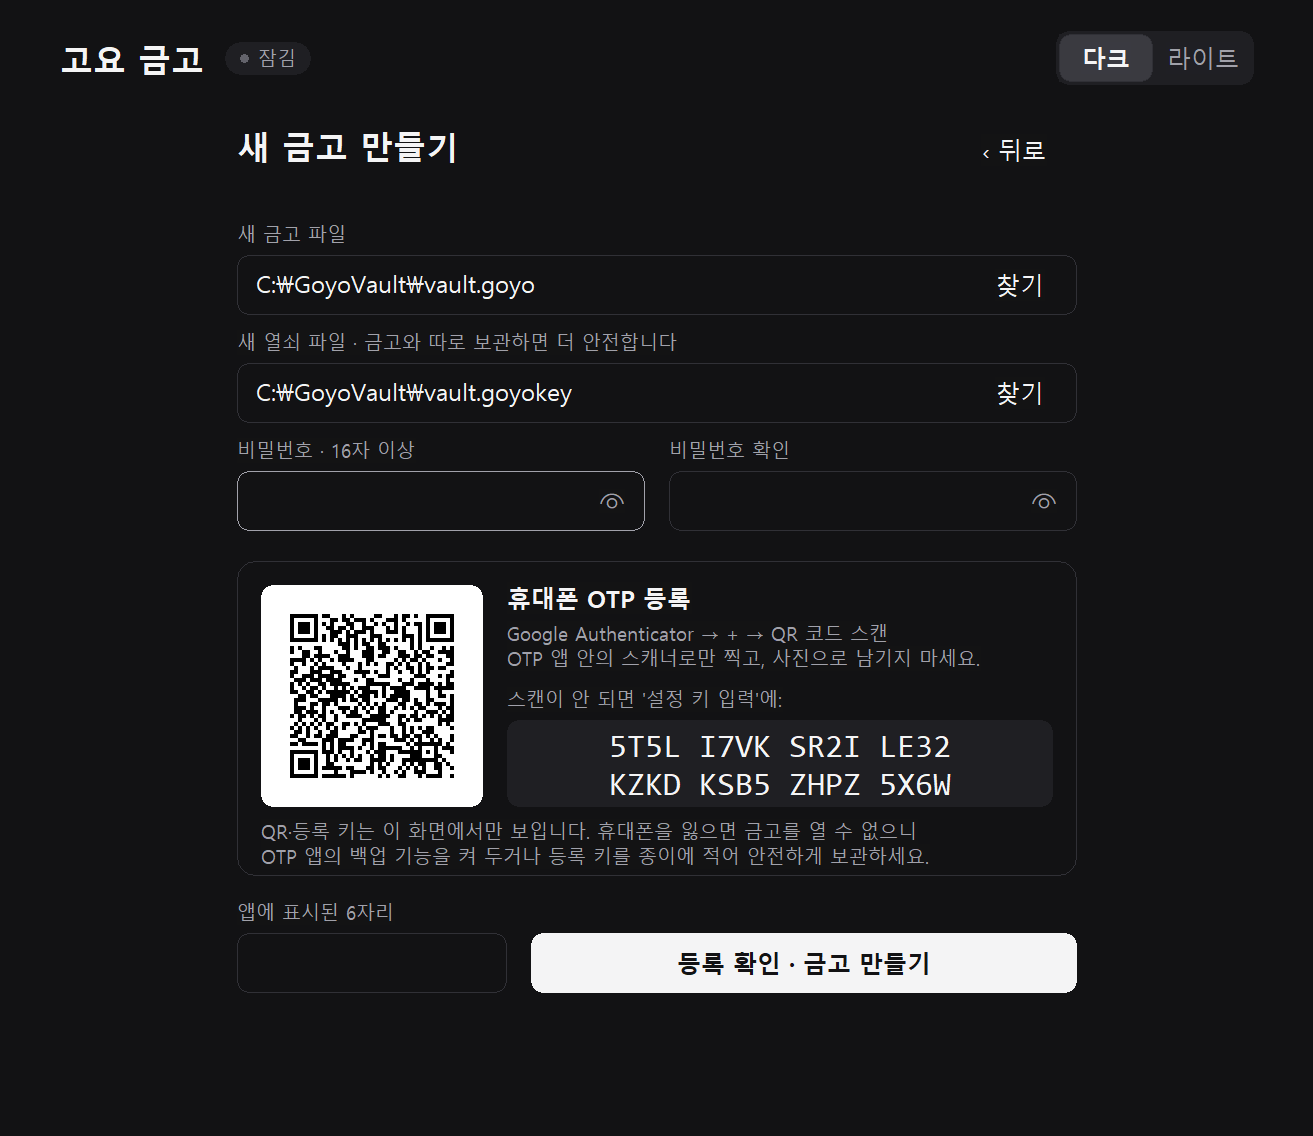
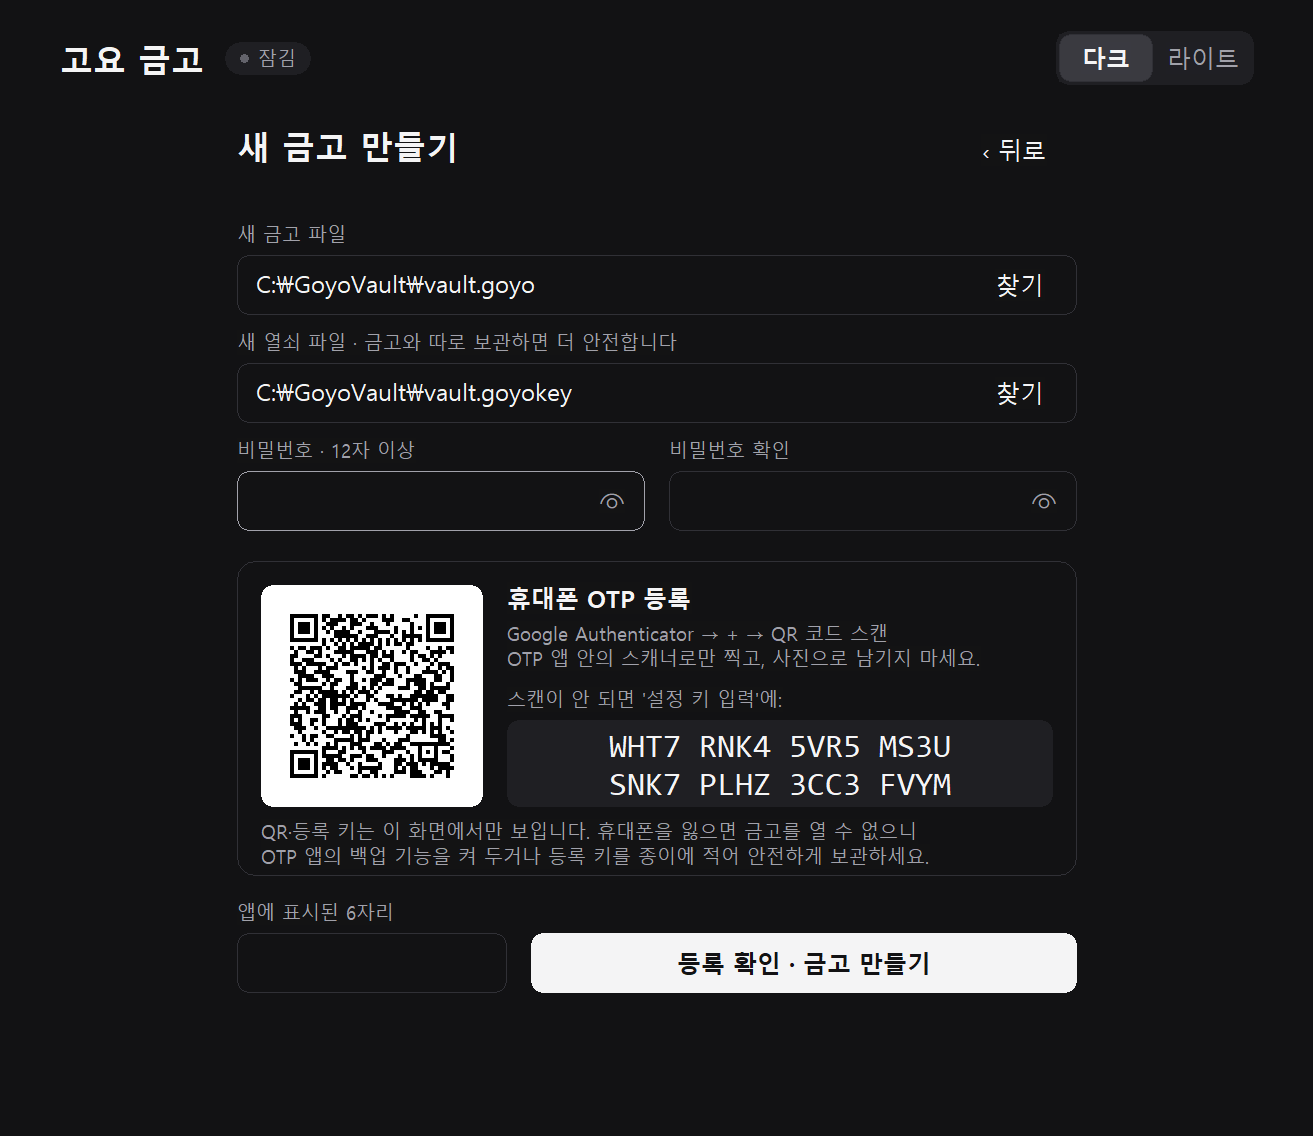
Keep pre-unlock forms on app switch; 12-character passwords (0.2.2)
Switching to another app locked every screen, so a user who left the
create screen while enrolling the OTP came back to the start page with a
new setup key, and the code already added to the phone no longer
matched. App switches now lock only an open vault. Before unlocking,
the open, create and restore forms are kept and passwords shown with
the eye button are masked again; the idle timeout and Windows session
lock or sleep still clear everything. The deferred path used while the
app is busy follows the same rule, and the regression test covers both.

The minimum length for a new password goes from 16 to 12 characters.
The six-distinct-characters rule and Argon2id settings are unchanged;
existing vaults and the file format are unaffected.

Changed region(s): [[0.2186, 0.5238, 0.3435, 0.7086], [0.4684, 0.647, 0.7182, 0.7086]]

diff --git a/src/main.rs b/src/main.rs
@@ -402,9 +402,27 @@ impl App {
         if edit == 0 || b == 0 {
             return Ok(());
         }
+        let show = unsafe { GetWindowLongPtrW(b, -21) } != theme::EYE_ON;
+        self.set_shown(edit, b, show)?;
+        unsafe {
+            // Keep typing where the user left off.
+            SetFocus(edit);
+        }
+        Ok(())
+    }
+    /// Masks every password shown with the eye button. Never moves focus,
+    /// so it is safe while another app is being activated.
+    fn mask_passwords(&self) {
+        for (button, field) in PEEK_FIELDS {
+            let (edit, b) = (self.handle(field), self.handle(button));
+            if edit != 0 && b != 0 && unsafe { GetWindowLongPtrW(b, -21) } == theme::EYE_ON {
+                let _ = self.set_shown(edit, b, false); // masking cannot fail
+            }
+        }
+    }
+    fn set_shown(&self, edit: Hwnd, b: Hwnd, show: bool) -> crypto::Result<()> {
         let original = EDIT_PROC.get().copied();
         unsafe {
-            let show = GetWindowLongPtrW(b, -21) != theme::EYE_ON;
             let mask = if show { 0 } else { '•' as usize };
             CallWindowProcW(original, edit, 0xcc, mask, 0);
             if show {
@@ -430,8 +448,6 @@ impl App {
             SetWindowTextW(b, wide(name).as_ptr());
             InvalidateRect(b, null(), 0);
             InvalidateRect(edit, null(), 1);
-            // Keep typing where the user left off.
-            SetFocus(edit);
         }
         Ok(())
     }
@@ -711,7 +727,7 @@ impl App {
         }
         if create {
             let half = (AW - 16) / 2;
-            self.password_field(PASS, "비밀번호 · 16자 이상", AX, y, half);
+            self.password_field(PASS, "비밀번호 · 12자 이상", AX, y, half);
             self.password_field(CONFIRM, "비밀번호 확인", AX + half + 16, y, half);
             // Enrollment card (see ENROLL): QR, setup key and frame are painted.
             let strong = self.font_of(|t| t.strong);
@@ -945,7 +961,7 @@ impl App {
             22,
         );
         self.password_field(CURRENT_PASS, "현재 비밀번호", AX, 160, AW);
-        self.password_field(PASS, "새 비밀번호 · 16자 이상", AX, 232, AW);
+        self.password_field(PASS, "새 비밀번호 · 12자 이상", AX, 232, AW);
         self.password_field(CONFIRM, "새 비밀번호 확인", AX, 304, AW);
         self.field(OTP, "새 Google OTP 6자리", "", AX, 376, 180, true);
         self.note(
@@ -1018,6 +1034,18 @@ impl App {
         self.screen = self.home();
         if self.screen == Screen::Welcome {
             self.status.clear();
+        }
+    }
+    /// Another app became active. An open vault locks. Before unlocking
+    /// there is nothing to lock, so a half-filled form (a new vault whose OTP
+    /// is being enrolled, a restore) stays for the user to come back to; shown
+    /// passwords are masked, and the idle timeout and Windows session lock
+    /// still clear everything.
+    fn deactivated(&mut self) {
+        if self.session.is_some() {
+            self.lock("다른 앱으로 전환되어 잠갔습니다.", false);
+        } else {
+            self.mask_passwords();
         }
     }
     fn lock(&mut self, why: &str, clear_clipboard: bool) {
@@ -1749,7 +1777,7 @@ impl App {
             for (i, (name, about)) in [
                 ("금고 파일", "암호화된 항목\n(.goyo)"),
                 ("열쇠 파일", "금고와 따로 보관\n(.goyokey)"),
-                ("비밀번호", "16자 이상의\n긴 문장"),
+                ("비밀번호", "12자 이상의\n긴 문장"),
                 ("휴대폰 OTP", "Google\nAuthenticator"),
             ]
             .into_iter()
@@ -2089,10 +2117,11 @@ fn drain_pending(h: Hwnd) {
             }
             return;
         }
-        a.lock(
-            "화면 또는 시스템 세션 변경으로 잠갔습니다.",
-            pending & 6 != 0,
-        );
+        if pending & 6 == 0 {
+            a.deactivated(); // only an app switch arrived while busy
+        } else {
+            a.lock("화면 또는 시스템 세션 변경으로 잠갔습니다.", true);
+        }
         if pending & 4 != 0 {
             a.closing = true;
         }
@@ -2252,7 +2281,7 @@ unsafe extern "system" fn window_proc(h: Hwnd, m: u32, w: usize, l: isize) -> is
             }
             0x1c if w == 0 => {
                 if !app.closing {
-                    app.lock("다른 앱으로 전환되어 잠갔습니다.", false);
+                    app.deactivated();
                 }
                 true
             }
@@ -2625,6 +2654,22 @@ mod tests {
             app.timer();
             assert!(app.read(PASS).unwrap().is_empty() && !app.auth_dirty);
             assert_eq!(SendMessageW(app.handle(PASS), 0xd2, 0, 0), mask);
+            // Switching apps mid-enrollment keeps the new vault form and its
+            // OTP secret; only the shown password is masked again.
+            app.screen = Screen::Create;
+            app.provision = Some(Provision::new().unwrap());
+            app.build();
+            let code = app.provision.as_ref().unwrap().setup_code();
+            SetWindowTextW(app.handle(PASS), wide("synthetic enrollment").as_ptr());
+            app.command(PEEK_PASS, 0).unwrap();
+            app.deactivated();
+            assert!(app.screen == Screen::Create);
+            assert_eq!(app.provision.as_ref().unwrap().setup_code(), code);
+            assert_eq!(&*app.read(PASS).unwrap(), "synthetic enrollment");
+            assert_eq!(SendMessageW(app.handle(PASS), 0xd2, 0, 0), mask);
+            app.provision = None;
+            app.screen = Screen::Login;
+            app.build();
             assert!(app.command(CANCEL, 0).is_err());
             assert!(app.screen == Screen::Login);
             for value in ["W".repeat(8192), "M".repeat(400), "한글😀".repeat(100)] {
@@ -2737,6 +2782,20 @@ mod tests {
                 let b = cell.borrow();
                 let a = b.as_ref().unwrap();
                 assert!(a.read(PASS).unwrap().is_empty() && !a.auth_dirty);
+                assert!(a.screen == Screen::Login);
+                SetWindowTextW(a.handle(PASS), wide("synthetic kept").as_ptr());
+            });
+            // A deferred app switch with nothing unlocked keeps typed input.
+            APP.with(|cell| {
+                let _borrow = cell.borrow_mut();
+                assert_eq!(window_proc(h, 0x1c, 0, 0), 0);
+                assert_eq!(PENDING_EVENTS.with(Cell::get), 1);
+            });
+            drain_pending(h);
+            APP.with(|cell| {
+                let b = cell.borrow();
+                let a = b.as_ref().unwrap();
+                assert_eq!(&*a.read(PASS).unwrap(), "synthetic kept");
                 assert!(a.screen == Screen::Login);
             });
             APP.with(|cell| {

diff --git a/src/vault.rs b/src/vault.rs
@@ -119,10 +119,14 @@ impl Provision {
         Ok(session)
     }
 }
+pub const MIN_PASSWORD: usize = 12;
 pub fn password_policy(s: &str) -> Result<()> {
-    if s.chars().count() < 16 || s.len() > 1024 {
+    // Argon2id slows each guess, but a stolen key file can still be guessed
+    // offline without limit (the OTP does not take part in decryption), so
+    // length is what keeps the password out of reach.
+    if s.chars().count() < MIN_PASSWORD || s.len() > 1024 {
         return Err(
-            "비밀번호는 16자 이상, UTF-8 1024바이트 이하로 입력하세요. 긴 무작위 문장을 권장합니다.",
+            "비밀번호는 12자 이상, UTF-8 1024바이트 이하로 입력하세요. 짧고 복잡한 암호보다 긴 문장이 안전합니다.",
         );
     }
     // Length alone admits "aaaaaaaaaaaaaaaa" or "abababababababab".
@@ -761,6 +765,9 @@ mod workflow_tests {
         assert!(password_policy("short but varied").is_ok());
         assert!(password_policy("우리집 강아지는 복슬복슬 강아지").is_ok());
         assert!(password_policy("abc").is_err());
+        assert!(password_policy("correct hors").is_ok()); // 12 characters
+        assert!(password_policy("correct hor").is_err()); // 11
+        assert!(password_policy("다람쥐 헌 쳇바퀴에 타고파").is_ok());
     }
     #[test]
     fn password_change_failure_stages_preserve_recoverability() {

diff --git a/README.md b/README.md
@@ -13,7 +13,7 @@
 - **완전 오프라인:** 네트워크 코드가 없습니다. 서버·계정·동기화·자동 업데이트도 없습니다.
 - **네 가지가 모두 있어야 열립니다:** 금고 파일(`.goyo`), 열쇠 파일(`.goyokey`), 비밀번호, 휴대폰 OTP.
 - **비밀값을 기본으로 가립니다:** 15초 보기, 허용한 뒤에만 복사, 복사한 값은 15초 뒤 클립보드에서 지웁니다.
-- **자동 잠금:** 60초 미사용, 다른 앱으로 전환, 화면 잠금, 절전 때 잠깁니다.
+- **자동 잠금:** 금고가 열려 있을 때 60초 미사용, 다른 앱으로 전환, 화면 잠금, 절전 때 잠깁니다.
 - **화면 캡처 차단:** 일반 캡처 프로그램과 화면 녹화에 금고 창이 찍히지 않습니다.
 - **설치 없는 단일 실행 파일**, 다크·라이트 테마를 지원합니다.
 
@@ -54,7 +54,7 @@
 ![새 금고 만들기](docs/images/create.png)
 
 1. **새 금고 파일**과 **새 열쇠 파일** 위치를 확인합니다. 기본값은 실행 파일 옆입니다. 열쇠 파일은 나중에 USB처럼 금고와 다른 곳에 두면 더 안전합니다.
-2. **비밀번호**를 두 번 입력합니다. 16자 이상이어야 하고, 같은 글자를 반복한 비밀번호는 받지 않습니다. 짧고 복잡한 암호보다 길고 외우기 쉬운 문장을 권장합니다. 칸 오른쪽의 눈 아이콘을 누르면 입력한 비밀번호를 보고 오타를 확인할 수 있고, 다시 누르면 가려집니다.
+2. **비밀번호**를 두 번 입력합니다. 12자 이상이어야 하고, 같은 글자를 반복한 비밀번호는 받지 않습니다. 짧고 복잡한 암호보다 길고 외우기 쉬운 문장을 권장합니다. 칸 오른쪽의 눈 아이콘을 누르면 입력한 비밀번호를 보고 오타를 확인할 수 있고, 다시 누르면 가려집니다.
 3. 휴대폰 Google Authenticator에서 **+ → QR 코드 스캔**을 누르고 화면의 QR을 비춥니다. 스캔이 안 되면 **설정 키 입력**을 골라 QR 옆의 등록 키를 입력합니다(종류: **시간 기준**). 스크린샷의 QR과 키는 예시용 가짜 값입니다.
 4. 앱에 나온 **6자리 번호**를 입력하고 **등록 확인 · 금고 만들기**를 누릅니다.
 
@@ -89,6 +89,8 @@
 ![금고 열기](docs/images/login.png)
 
 60초 동안 쓰지 않거나, 다른 앱으로 전환하거나, 화면을 잠그거나, 절전에 들어가면 자동으로 잠깁니다. **잠금** 버튼으로 바로 잠글 수도 있습니다.
+
+금고를 열기 전 화면(금고 열기, 새 금고 만들기, 백업에서 복원)은 다른 앱으로 전환해도 입력하던 내용과 OTP 등록 QR이 그대로 남고, 보이게 해 둔 비밀번호만 다시 가려집니다. 이 화면들도 미사용 시간(새 금고 5분, 나머지 60초)이 지나거나 Windows 화면을 잠그면 지워집니다.
 
 다시 열 때는 비밀번호와 **새** OTP 번호를 입력합니다. 한 번 쓴 OTP 번호는 다시 받지 않으니, 방금 열었다면 휴대폰에 다음 번호가 나올 때까지 기다리세요. 금고나 열쇠 파일을 다른 곳으로 옮겼다면 **찾기**로 고릅니다.
 

diff --git a/README.en.md b/README.en.md
@@ -16,7 +16,7 @@
 - **Fully offline:** no network code, no server, account, sync or auto-update.
 - **Four things open a vault:** the vault file (`.goyo`), a separate key file (`.goyokey`), your password and a phone OTP.
 - **Secrets stay hidden by default:** show for 15 seconds, copy only after you allow it, and the clipboard is wiped 15 seconds after a copy.
-- **Auto-lock** after 60 seconds idle, when you switch to another app, lock the screen or the PC sleeps.
+- **Auto-lock** of an open vault after 60 seconds idle, when you switch to another app, lock the screen or the PC sleeps.
 - **Screen-capture protection:** the window is excluded from ordinary screenshots and screen recordings.
 - **A single executable, no installer.** Dark and light themes.
 
@@ -57,7 +57,7 @@ Switch between **Dark (다크)** and **Light (라이트)** in the top-right corn
 ![Create a vault](docs/images/create.png)
 
 1. Check where the **new vault file (새 금고 파일)** and **new key file (새 열쇠 파일)** go. Both default to the program folder. Keeping the key file somewhere else, such as a USB drive, is safer.
-2. Enter a **password** twice. It needs at least 16 characters, and passwords that just repeat a few characters are refused. A long sentence you can remember is better than a short complex one. Press the eye icon at the right of the field to check what you typed for typos; press it again to hide it.
+2. Enter a **password** twice. It needs at least 12 characters, and passwords that just repeat a few characters are refused. A long sentence you can remember is better than a short complex one. Press the eye icon at the right of the field to check what you typed for typos; press it again to hide it.
 3. In Google Authenticator tap **+ → Scan a QR code** and point it at the QR on screen. If scanning does not work, choose **Enter a setup key** and type the key shown next to the QR (type: **Time based**). The QR and key in the screenshot are fake examples.
 4. Enter the **6-digit code** from the app and press **Confirm and create (등록 확인 · 금고 만들기)**.
 
@@ -92,6 +92,8 @@ Pick an entry in the list to see it on the right.
 ![Open vault](docs/images/login.png)
 
 The vault locks itself after 60 seconds without use, when you switch to another app, lock the screen or the PC sleeps. **Lock (잠금)** locks it right away.
+
+Screens before a vault is open (open, new vault, restore) keep what you typed and the OTP setup QR when you switch to another app; only a password you made visible is hidden again. They are still cleared after the idle time (5 minutes for a new vault, 60 seconds otherwise) or when you lock Windows.
 
 To open it again, enter your password and a **new** OTP code. A code that was already used is refused, so if you just opened the vault, wait for the next code on your phone. If you moved the vault or key file, pick it with **Browse (찾기)**.
 

diff --git a/docs/SECURITY_REVIEW.md b/docs/SECURITY_REVIEW.md
@@ -82,6 +82,13 @@
 - 표시 중에도 복사·잘라내기, 외부 `WM_GETTEXT`, `WM_GETOBJECT`(접근성) 차단과 캡처 제외는 그대로입니다. 잠금·미사용 시간 초과·화면 전환으로 화면을 다시 만들면 새 칸은 가려진 상태입니다. 회귀 테스트가 이 항목들과 외부 `EM_SETPASSWORDCHAR` 무시, 잠금 후 재가림을 확인합니다.
 - 남는 위험은 주변 사람이 화면을 직접 보는 것입니다. 사용자가 누를 때만 보이므로 사용자의 선택으로 남깁니다.
 
+## 0.2.2 변경: 비밀번호 최소 길이, 열기 전 화면의 앱 전환
+
+이 변경도 외부 모델 검토를 받지 않았습니다.
+
+- 새 비밀번호 최소 길이를 16자에서 12자로 낮췄습니다. 서로 다른 글자 6개 이상 규칙과 Argon2id 설정(256 MiB, 3회)은 그대로입니다. 열쇠 파일을 가진 공격자는 OTP 없이 오프라인으로 비밀번호를 추측할 수 있으므로, 길이가 실제 방어선이라는 점은 README에 계속 적습니다. 기존 금고 열기와 파일 형식에는 영향이 없습니다.
+- 다른 앱으로 전환할 때 잠그는 대상을 열린 금고로 한정했습니다. 금고를 열기 전 화면(열기·새 금고·복원)에는 풀린 비밀이 없으므로 입력 내용과 OTP 등록 정보를 유지하고, 눈 버튼으로 보이게 한 비밀번호만 다시 가립니다. 이전에는 OTP를 휴대폰에 등록하는 도중 전환하면 등록 키가 새로 만들어져 이미 등록한 OTP가 쓸모없어졌습니다. 입력 칸은 전환 중에도 외부 읽기·복사·캡처가 막혀 있고, 미사용 시간 초과(새 금고 5분, 나머지 60초)와 Windows 세션 잠금·절전은 계속 모든 입력을 지웁니다. 바쁜 동안 들어온 전환 이벤트도 같은 규칙을 따르며, 회귀 테스트가 두 경로를 확인합니다.
+
 ## 남은 검증 한계와 의도한 동작
 
 실제 비밀·사용자 클립보드를 사용하는 UI 자동화는 수행하지 않았습니다. 숨겨진 자체 테스트 창과 가짜 값으로 검증했습니다. 사용자 클립보드를 실제로 덮어쓰는 통합 테스트, 모든 캡처 프로그램·IME·셸 확장, FAT/exFAT 전원 차단, 장치별 물리 난수 검증은 수행하지 않았습니다. 실제 한국어 IME를 통한 제목/경로 입력은 수동 확인하지 않았으며, 암호 입력 범위 때문에 한글 입력이 제한될 수 있음을 README에 명시했습니다.
